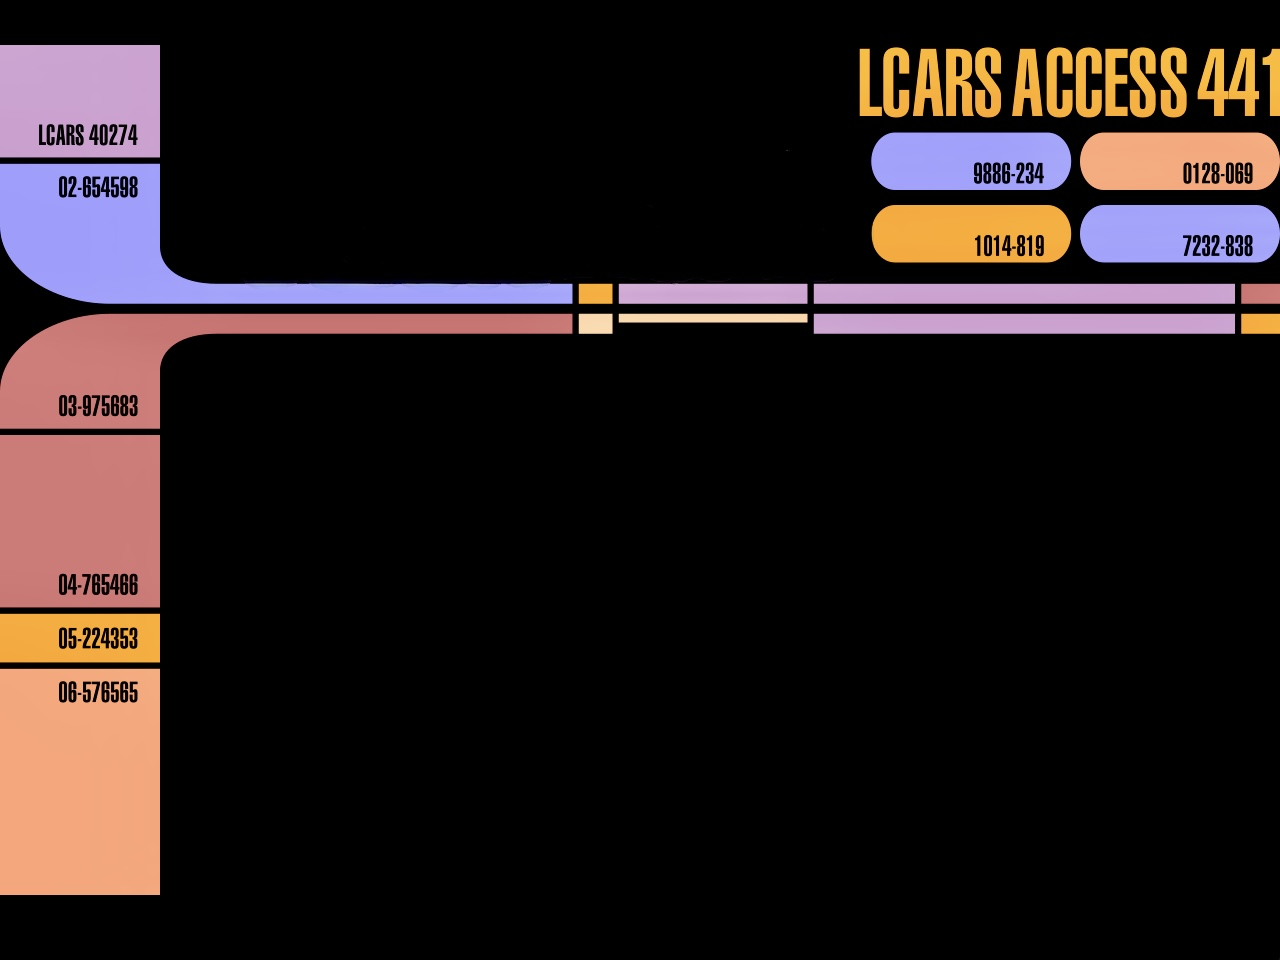
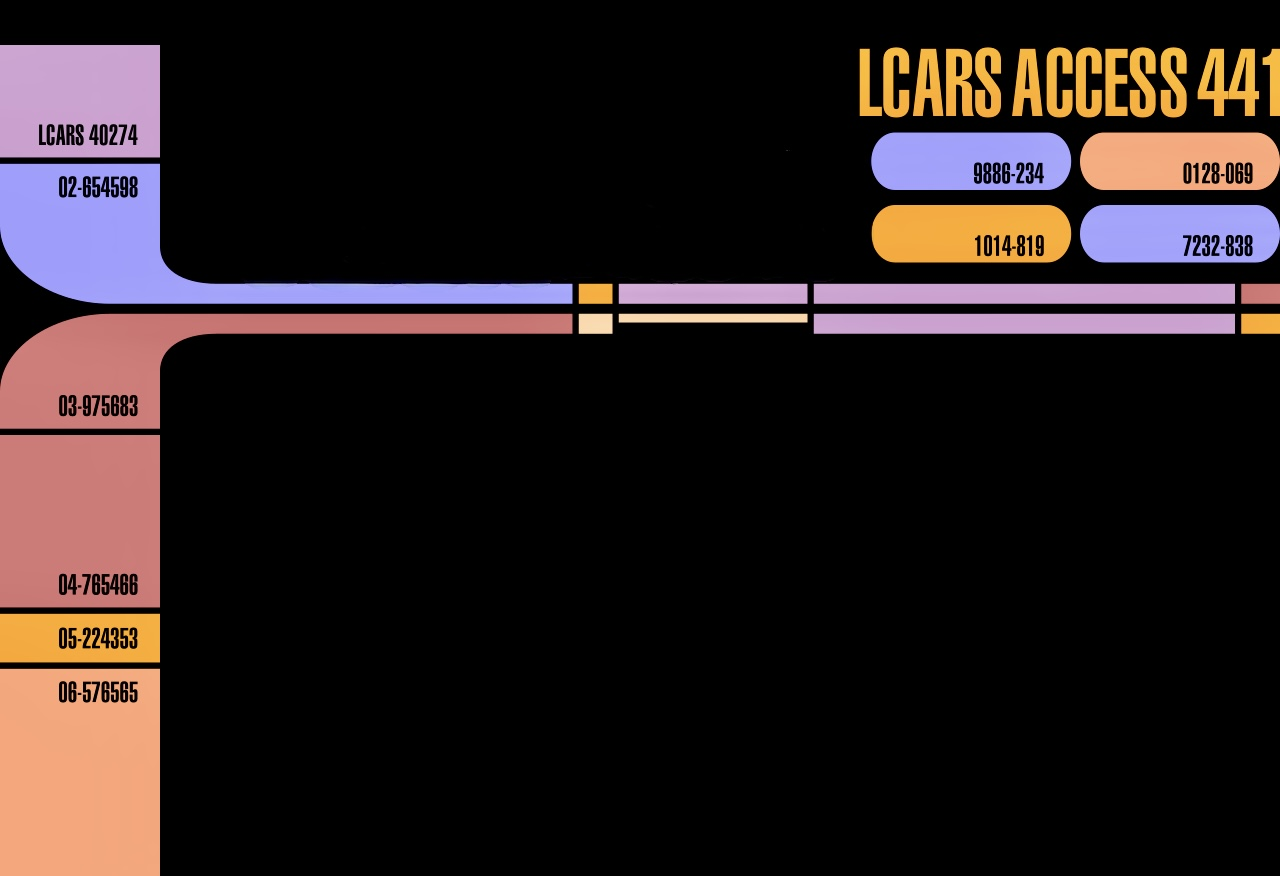
fix: revised 9-slice (bottom 1px stretch), prevent horizontal squish, merge image+fixes from main

diff --git a/scenes/MainMenuScene.js b/scenes/MainMenuScene.js
@@ -11,20 +11,23 @@ class MainMenuScene extends Phaser.Scene {
 
         console.log('MainMenuScene: Starting main menu...')
 
-        // LCARS background using 9-slice so the decorative chrome stays crisp
-        // while the large black center region stretches to fill any screen size.
-        // Source image (lcars-menu-background.jpeg) is 1280x960:
-        //   left column  : x 0–155  (LCARS panel column)
-        //   upper section: y 0–275  (black title area)
-        //   stripe band  : y 275–340 (horizontal LCARS chrome)
-        //   lower section: y 340–960 (black button / content area)
-        // Slice: leftWidth=155, rightWidth=0, topHeight=340, bottomHeight=0
+        // LCARS background using 9-slice.
+        // Source image (lcars-menu-background.jpeg) is 1280x876.
+        // Stretch zone: bottom 1px row across the full image width
+        //   (topHeight=875, all else fixed). The orange on the left column
+        //   at the bottom edge repeats downward to fill any extra height.
+        // Display at least the natural image width to prevent horizontal squishing;
+        // on narrow screens the canvas clips the right side.
+        const IMAGE_WIDTH = 1280
+        const IMAGE_HEIGHT = 876
+        const displayWidth = Math.max(width, IMAGE_WIDTH)
+        const displayHeight = Math.max(height, IMAGE_HEIGHT)
         this.add.nineslice(
-            width / 2, height / 2,
+            0, 0,
             'lcars-menu-background', null,
-            width, height,
-            155, 0, 340, 0
-        )
+            displayWidth, displayHeight,
+            0, 0, IMAGE_HEIGHT - 1, 0
+        ).setOrigin(0, 0)
 
         // ── Title – upper black section (image y 0–275, fixed in 9-slice) ──
         const titleSize = isMobile ? '40px' : '60px'

diff --git a/scenes/Level1Scene.js b/scenes/Level1Scene.js
@@ -2116,7 +2116,7 @@ class Level1Scene extends Phaser.Scene {
         
         // Choose color based on health percentage
         let healthColor;
-        if (healthPercent > 0.5) {
+        if (healthPercent > 0.7) {
             healthColor = 0x00ff00; // Green
         } else if (healthPercent > 0.35) {
             healthColor = 0xffff00; // Yellow
@@ -4121,6 +4121,7 @@ class Level1Scene extends Phaser.Scene {
                 // Check if rescue is complete
                 if (progress >= 1.0) {
                     this.completePodRescue(pod);
+                    return; // Pod is destroyed; stop processing this pod
                 }
             } else {
                 // Player moved too far away - reset rescue timer
